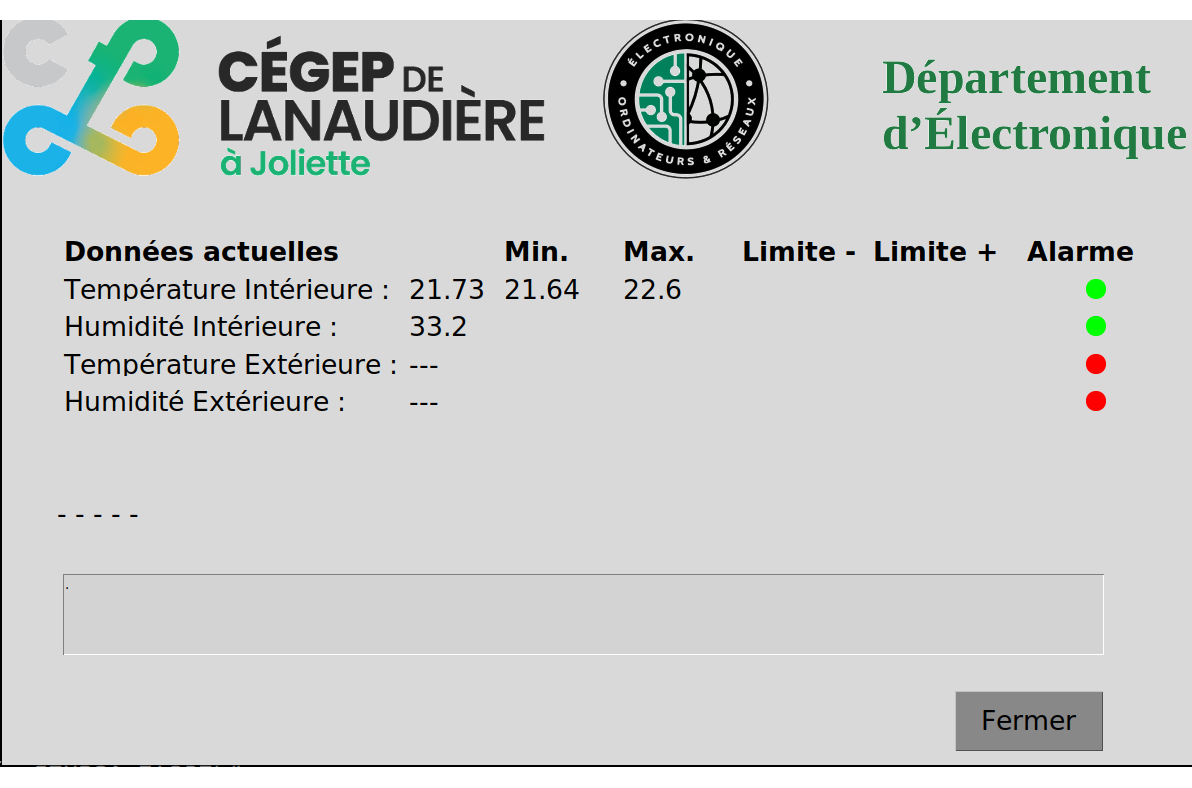
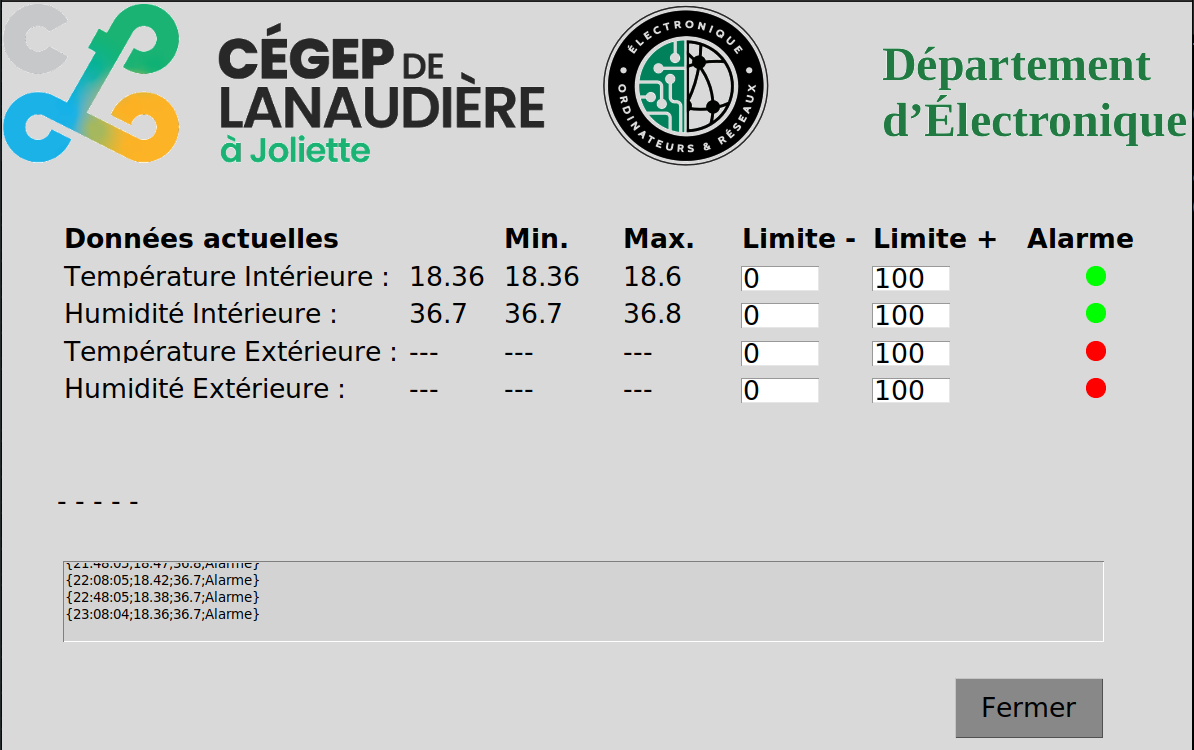
En développement

diff --git a/appDemo.py b/appDemo.py
@@ -75,7 +75,7 @@ class appDemo:
         self.root.protocol("WM_DELETE_WINDOW", self.on_closing)
         
         self.TextDebug = tk.Text(self.root)
-        self.TextDebug.place(relx=0.05, rely=0.744, relheight=0.111, relwidth=0.877)
+        self.TextDebug.place(relx=0.05, rely=0.744, relheight=0.2, relwidth=0.877)
         self.TextDebug.configure(background="lightgrey")
         self.TextDebug.configure(font="TkTextFont")
         self.TextDebug.configure(selectbackground="#c4c4c4")
@@ -84,10 +84,8 @@ class appDemo:
         self.TextDebug.insert(tk.END, "\n")
 
         self.Label1 = tk.Label(self.root)
-        self.Label1.place(relx=0.0, rely=0.65, height=21, width=200)
+        self.Label1.place(relx=0.0, rely=0.7, height=21, width=200)
         self.Label1.configure(text="- - - - - ")
-#        self.Label1.configure(text="Mon adresse : " + self.IP)
-#        self.Label1.configure(justify='left')
         self.Label1.configure(justify='left')
         self.Label1.configure(font=("Courrier New", 20))
         self.Label1.bind("<Button-1>", self.Label1Click) #JDS
@@ -147,7 +145,30 @@ class appDemo:
         self.lblHumInterneAlm = tk.Label(self.root, image=self.almVerte, width=20, height=20)
         self.lblHumInterneAlm.place(relx=0.91, rely=0.40)
 
-        
+        self.lblHumInterneMin = tk.Label(self.root, anchor="w")
+        self.lblHumInterneMin.place(relx=0.42, rely=0.4, height=23, width=200)
+        self.lblHumInterneMin.configure(text="---")
+        self.lblHumInterneMin.configure(justify='left')
+        self.lblHumInterneMin.configure(font=("Courrier New", 20))
+
+        self.lblHumInterneMax = tk.Label(self.root, anchor="w")
+        self.lblHumInterneMax.place(relx=0.52, rely=0.4, height=23, width=200)
+        self.lblHumInterneMax.configure(text="---")
+        self.lblHumInterneMax.configure(justify='left')
+        self.lblHumInterneMax.configure(font=("Courrier New", 20))
+
+        self.txtHumInterneAlmMin = tk.Entry(self.root, bg="lightgrey")
+        self.txtHumInterneAlmMin.place(relx=0.62, rely=0.4, height=27, width=80)
+        self.txtHumInterneAlmMin.insert(0, "0")
+        self.txtHumInterneAlmMin.configure(justify='left')
+        self.txtHumInterneAlmMin.configure(font=("Courrier New", 20))
+
+        self.txtHumInterneAlmMax = tk.Entry(self.root, bg="lightgrey")
+        self.txtHumInterneAlmMax.place(relx=0.73, rely=0.4, height=27, width=80)
+        self.txtHumInterneAlmMax.insert(0, "100")
+        self.txtHumInterneAlmMax.configure(justify='left')
+        self.txtHumInterneAlmMax.configure(font=("Courrier New", 20))
+
         self.lblTempInterne = tk.Label(self.root, anchor="w")
         self.lblTempInterne.place(relx=0.05, rely=0.35, height=23, width=340)
         self.lblTempInterne.configure(text="Température Intérieure : ")
@@ -161,6 +182,7 @@ class appDemo:
         self.lblTempInterneVal.configure(text="---")
         self.lblTempInterneVal.configure(justify='left')
         self.lblTempInterneVal.configure(font=("Courrier New", 20))
+
         self.lblTempInterneMin = tk.Label(self.root, anchor="w")
         self.lblTempInterneMin.place(relx=0.42, rely=0.35, height=23, width=200)
         self.lblTempInterneMin.configure(text="---")
@@ -173,6 +195,18 @@ class appDemo:
         self.lblTempInterneMax.configure(justify='left')
         self.lblTempInterneMax.configure(font=("Courrier New", 20))
         print("5-")
+
+        self.txtTempInterneAlmMin = tk.Entry(self.root, bg="lightgrey")
+        self.txtTempInterneAlmMin.place(relx=0.62, rely=0.35, height=27, width=80)
+        self.txtTempInterneAlmMin.insert(0, "0")
+        self.txtTempInterneAlmMin.configure(justify='left')
+        self.txtTempInterneAlmMin.configure(font=("Courrier New", 20))
+
+        self.txtTempInterneAlmMax = tk.Entry(self.root, bg="lightgrey")
+        self.txtTempInterneAlmMax.place(relx=0.73, rely=0.35, height=27, width=80)
+        self.txtTempInterneAlmMax.insert(0, "100")
+        self.txtTempInterneAlmMax.configure(justify='left')
+        self.txtTempInterneAlmMax.configure(font=("Courrier New", 20))
 
         self.lblTempInterneAlm = tk.Label(self.root, image=self.almVerte, width=20, height=20)
         self.lblTempInterneAlm.place(relx=0.91, rely=0.35)
@@ -189,7 +223,32 @@ class appDemo:
         self.lblHumExterneVal.configure(text="---")
         self.lblHumExterneVal.configure(justify='left')
         self.lblHumExterneVal.configure(font=("Courrier New", 20))
+
+        self.lblHumExterneMin = tk.Label(self.root, anchor="w")
+        self.lblHumExterneMin.place(relx=0.42, rely=0.5, height=23, width=200)
+        self.lblHumExterneMin.configure(text="---")
+        self.lblHumExterneMin.configure(justify='left')
+        self.lblHumExterneMin.configure(font=("Courrier New", 20))
+
+        self.lblHumExterneMax = tk.Label(self.root, anchor="w")
+        self.lblHumExterneMax.place(relx=0.52, rely=0.5, height=23, width=200)
+        self.lblHumExterneMax.configure(text="---")
+        self.lblHumExterneMax.configure(justify='left')
+        self.lblHumExterneMax.configure(font=("Courrier New", 20))
+
         print("7-")
+
+        self.txtTempExterneAlmMin = tk.Entry(self.root, bg="lightgrey")
+        self.txtTempExterneAlmMin.place(relx=0.62, rely=0.5, height=27, width=80)
+        self.txtTempExterneAlmMin.insert(0, "0")
+        self.txtTempExterneAlmMin.configure(justify='left')
+        self.txtTempExterneAlmMin.configure(font=("Courrier New", 20))
+
+        self.txtTempExterneAlmMax = tk.Entry(self.root, bg="lightgrey")
+        self.txtTempExterneAlmMax.place(relx=0.73, rely=0.5, height=27, width=80)
+        self.txtTempExterneAlmMax.insert(0, "100")
+        self.txtTempExterneAlmMax.configure(justify='left')
+        self.txtTempExterneAlmMax.configure(font=("Courrier New", 20))
 
         self.lblHumExterneAlm = tk.Label(self.root, image=self.almRouge, width=20, height=20)
         self.lblHumExterneAlm.place(relx=0.91, rely=0.5)
@@ -209,13 +268,34 @@ class appDemo:
         self.lblTempExterneVal.configure(font=("Courrier New", 20))
 #        self.lblTempExterne.bind("<Button-1>", self.Label1Click) #JDS
 
+        self.lblTempExterneMin = tk.Label(self.root, anchor="w")
+        self.lblTempExterneMin.place(relx=0.42, rely=0.45, height=23, width=200)
+        self.lblTempExterneMin.configure(text="---")
+        self.lblTempExterneMin.configure(justify='left')
+        self.lblTempExterneMin.configure(font=("Courrier New", 20))
+
+        self.lblTempExterneMax = tk.Label(self.root, anchor="w")
+        self.lblTempExterneMax.place(relx=0.52, rely=0.45, height=23, width=200)
+        self.lblTempExterneMax.configure(text="---")
+        self.lblTempExterneMax.configure(justify='left')
+        self.lblTempExterneMax.configure(font=("Courrier New", 20))
+
+        self.txtTempExterneAlmMin = tk.Entry(self.root, bg="lightgrey")
+        self.txtTempExterneAlmMin.place(relx=0.62, rely=0.45, height=27, width=80)
+        self.txtTempExterneAlmMin.insert(0, "0")
+        self.txtTempExterneAlmMin.configure(justify='left')
+        self.txtTempExterneAlmMin.configure(font=("Courrier New", 20))
+
+        self.txtTempExterneAlmMax = tk.Entry(self.root, bg="lightgrey")
+        self.txtTempExterneAlmMax.place(relx=0.73, rely=0.45, height=27, width=80)
+        self.txtTempExterneAlmMax.insert(0, "100")
+        self.txtTempExterneAlmMax.configure(justify='left')
+        self.txtTempExterneAlmMax.configure(font=("Courrier New", 20))
 
         self.lblTempExterneAlm = tk.Label(self.root, image=self.almRouge, width=20, height=20)
         self.lblTempExterneAlm.place(relx=0.91, rely=0.45)
 
         print("9-")
-
-        
 
         s = socket.socket(socket.AF_INET, socket.SOCK_DGRAM)
         try:
@@ -226,14 +306,14 @@ class appDemo:
         finally:
             s.close()
 
-        self.ButtonTerminate = tk.Button(self.root)
-        self.ButtonTerminate.place(relx=0.80, rely=0.90, height=62, width=150)
-        self.ButtonTerminate.bind("<Button-1>", self.buttonLogoClick)
-        self.ButtonTerminate.configure(activebackground="#c4c4c4")
-        self.ButtonTerminate.configure(activeforeground="black")
-        self.ButtonTerminate.configure(text='''Fermer''')
-        self.ButtonTerminate.configure(background="#888888")
-        self.ButtonTerminate.configure(font=("Courrier New", 20))
+        #self.ButtonTerminate = tk.Button(self.root)
+        #self.ButtonTerminate.place(relx=0.80, rely=0.90, height=62, width=150)
+        #self.ButtonTerminate.bind("<Button-1>", self.buttonLogoClick)
+        #self.ButtonTerminate.configure(activebackground="#c4c4c4")
+        #self.ButtonTerminate.configure(activeforeground="black")
+        #self.ButtonTerminate.configure(text='''Fermer''')
+        #self.ButtonTerminate.configure(background="#888888")
+        #self.ButtonTerminate.configure(font=("Courrier New", 20))
 
 
     def buttonLogoClick(self, event):
@@ -251,6 +331,9 @@ class appDemo:
     def addHumiditySHT(self, data):
 
         self.lblHumInterneVal.configure(text=str(data))
+        limites = self.findMiniMax("Hum_SHT")
+        self.lblHumInterneMin.configure(text=str(limites[0]))
+        self.lblHumInterneMax.configure(text=str(limites[1]))
 
     def addData(self, type, data):
 
